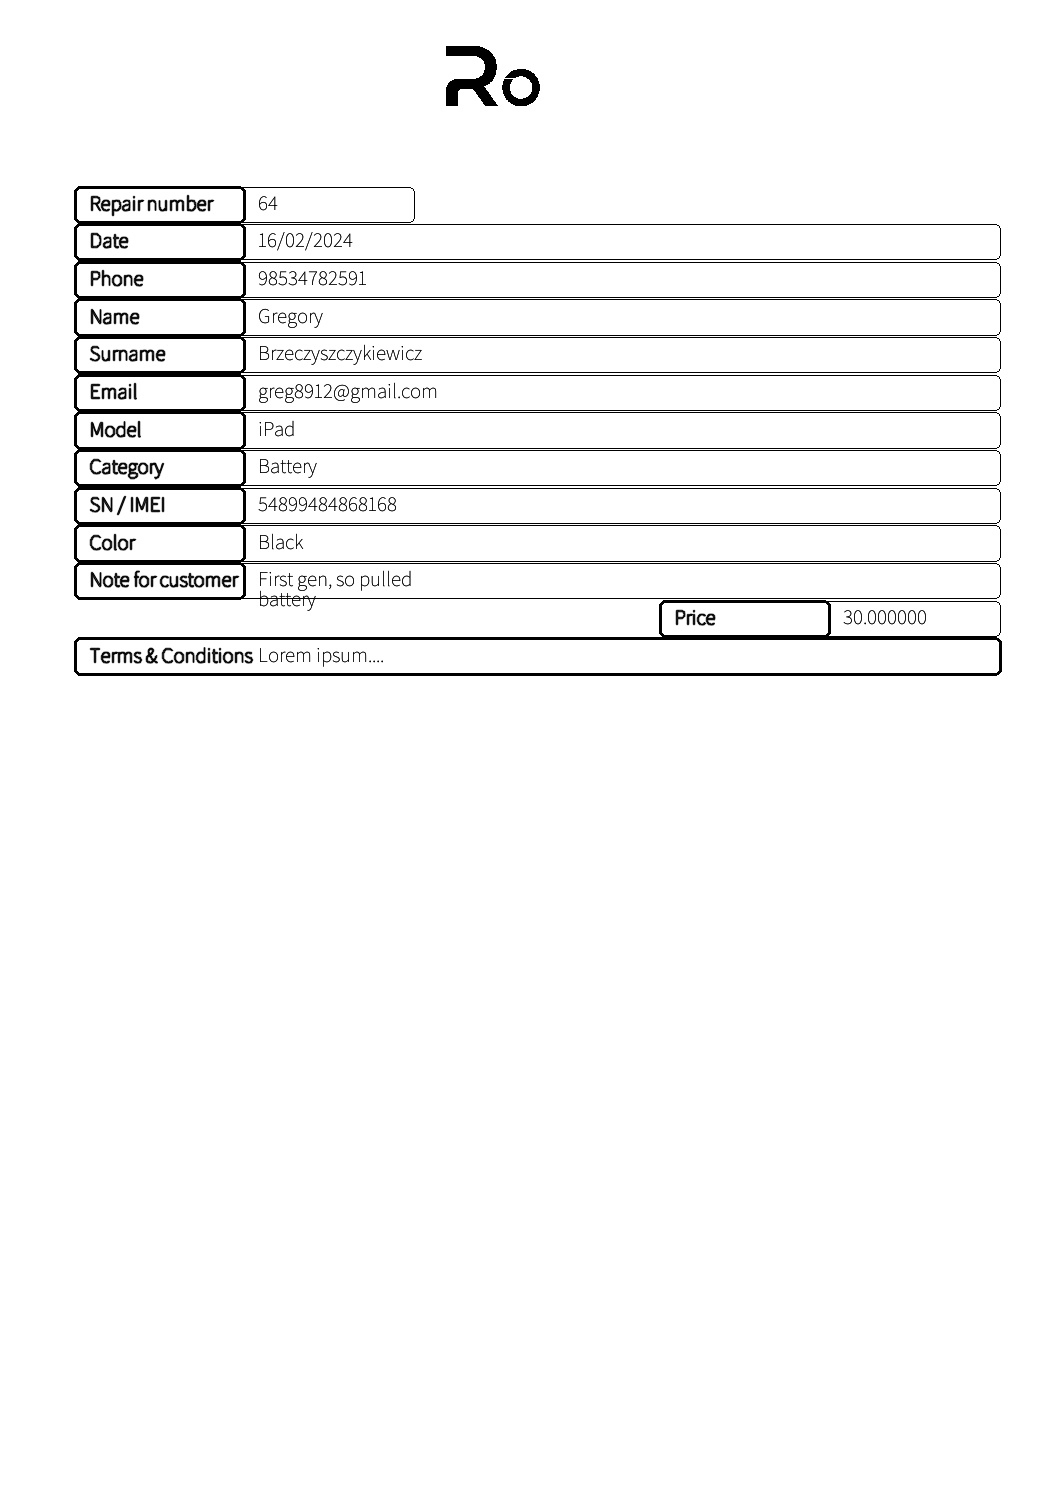
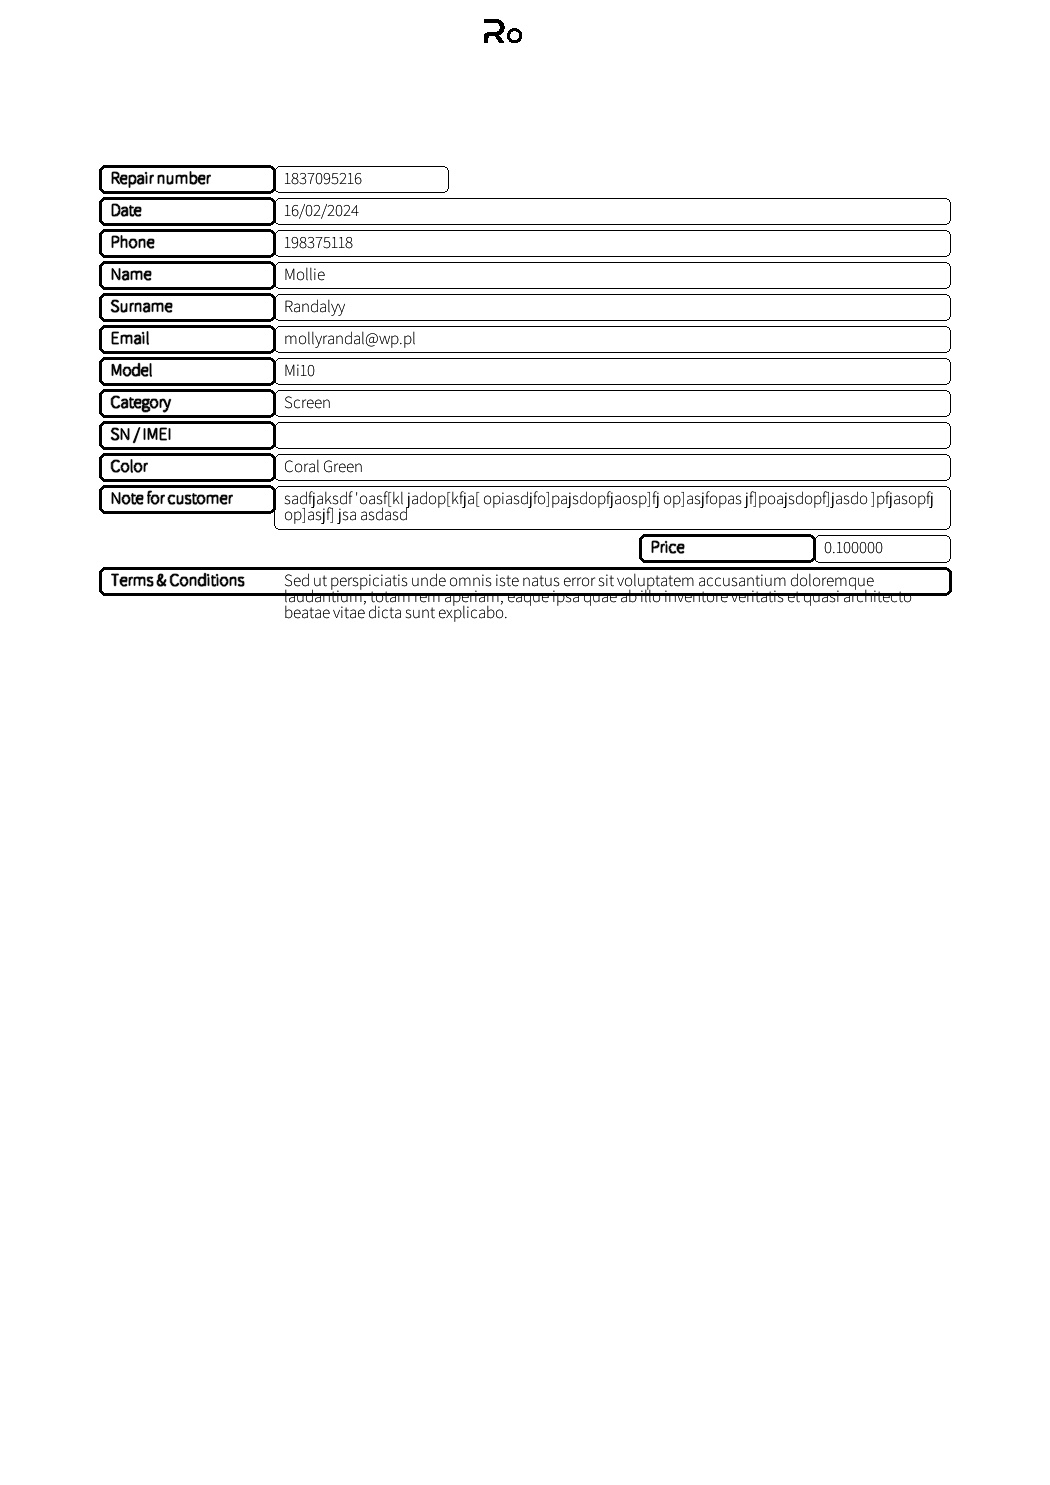
Ticket print template resize field on input

Changed region(s): [[0.061, 0.0929, 0.9448, 0.4646], [0.4267, 0.0, 0.5181, 0.0929]]

diff --git a/Reparo/src/repair_ticket.cpp b/Reparo/src/repair_ticket.cpp
@@ -11,7 +11,10 @@ ElementProperty::ElementProperty(const ImVec2& size, const ImVec2& offset) : siz
 // SECTION TextField
 TextField::TextField() {}
 
-TextField::TextField(std::string label) : label(label) {}
+TextField::TextField(std::string label) : label(label) {
+  std::cout << "Created TextField: " << label <<  std::endl;
+
+}
 
 TextField::TextField(const std::string& label, const ImVec2& size, const ImVec2& offset, const float& font_size)
   : ElementProperty(size, offset), // Call the base class constructor
@@ -148,63 +151,91 @@ void CreateImage::CreateA4(std::vector<TextField>& text_fields_vector, Logo* log
   
   DrawLogo(image, logo);
   cv::imwrite("temp.jpg", image); // Save the image
-  //cv::imshow("A4 Image with Custom Font", image); // Display the image
-  //cv::waitKey(0); // Wait for a key press to close the image window
+  cv::imshow("A4 Image with Custom Font", image); // Display the image
+  cv::waitKey(0); // Wait for a key press to close the image window
 }
 
 void CreateImage::DrawTextFieldsOnImage(std::vector<TextField>& text_fields_vector, cv::Mat& image, float& right_margin, Repair* repair) {
-  static bool toggle = false;
+  int y = 0;
+  int ext_box = 0;
   for (auto& field : text_fields_vector) {
-
-    float offset_x = field.offset.x * dpi_s;
-    float offset_y = field.offset.y * dpi_s;
-
+    float offset_x = field.offset.x * TicketScales::dpi_scale;
+    float offset_y = field.offset.y * TicketScales::dpi_scale;
+    float size_x = field.size.x * TicketScales::scale;
+    float size_y = field.size.y * TicketScales::scale;
+    float font_size = field.font_size * TicketScales::scale;
+    float text_pos_x = offset_x + 10;
+    float text_pos_y = offset_y + ((size_y / font_size) * scale );
+    //std::cout << "Offset Y: " << offset_y << " Text Pos Y: " << text_pos_y <<  " | " << scale << " | " << size_y << " | " << font_size << std::endl;
     cv::Scalar rect_color(0, 0, 0); // Black border
     int thickness = 1; // Pixel
     int corner_radius = 5; // Radius of the rounded corners
-    cv::Scalar color_fill = toggle ? cv::Scalar(255, 255, 255, 128) : cv::Scalar(255, 255, 255, 128);
+    cv::Scalar color_fill =  cv::Scalar(255, 255, 255, 128);
 
-    cv::Point left_cell;
+    
+
+    // Draw labels on left side 
+    DrawWrappedText(image, field.label, cv::Point(text_pos_x,  offset_y + y), size_x, font_size, cv::Scalar(0, 0, 0), 1, font_size);
+    cv::Point left_cell_bot_right;
     if (field.label == "Terms & Conditions") {
-      left_cell = cv::Point(width - right_margin, (offset_y)+(field.size.y));
+      left_cell_bot_right = cv::Point(width - right_margin, offset_y + size_y + y);
     }
     else {
-      left_cell = cv::Point((offset_x)+(field.size.x * dpi_s), (offset_y)+(field.size.y));
+      left_cell_bot_right = cv::Point(offset_x + size_x, offset_y + size_y+y);
     }
-    DrawRoundedRect(image, cv::Point((offset_x), (offset_y)-(field.font_size)),
-      left_cell,
+    DrawRoundedRect(image, cv::Point(offset_x, offset_y + y),
+      left_cell_bot_right,
       corner_radius, rect_color, color_fill, 2);
-    cv::Scalar color_fill1(255, 255, 255, 128);
-
-    cv::Point right_cell;
-    if (field.label != "Terms & Conditions") {
-      if (field.label == "Repair number")
-        right_cell = cv::Point((offset_x)+(field.size.x * dpi_s) * 2, offset_y+field.size.y);
-      else {
-        right_cell = cv::Point(width - right_margin, (offset_y)+(field.size.y));
-      }
-      DrawRoundedRect(image, cv::Point((offset_x), (offset_y)-(field.font_size)),
-        right_cell,
-        corner_radius, rect_color, color_fill1, thickness);
-    }
 
     // Draw the text on the A4 image using custom font, handling new lines
-    DrawWrappedText(image, field.label, cv::Point(offset_x + field.font_size , offset_y + field.font_size / 1.5), field.size.x * dpi_s, field.font_size * dpi_s, cv::Scalar(0, 0, 0), 1);
     static std::unordered_map<std::string, std::string> right_cells;
     if (repair) {
       right_cells = AssignRepairToLabels(repair);
     }
-     DrawWrappedText(image, right_cells[field.label], cv::Point((offset_x + field.size.x * dpi_s) + field.font_size, offset_y + field.font_size / 1.5), field.size.x * dpi_s, field.font_size * dpi_s, cv::Scalar(0, 0, 0), -1);
-      
-   
-    toggle = !toggle;
+    int temp_y = DrawWrappedText(image, right_cells[field.label], cv::Point(text_pos_x + size_x, text_pos_y + y), width - right_margin - offset_x - size_x, font_size, cv::Scalar(0, 0, 0), -1, font_size);
+
+
+    // Draw fields on right side
+    cv::Scalar color_fill1(255, 255, 255, 128);
+
+    cv::Point right_cell_top_left;
+    if (field.label == "Terms & Conditions") {
+      right_cell_top_left = cv::Point((offset_x + size_x), offset_y);
+    }
+    if (field.label == "Repair number") {
+      right_cell_top_left = cv::Point((offset_x + size_x), offset_y);
+    }
+    else {
+      right_cell_top_left = cv::Point((offset_x + size_x), offset_y + y);
+    }
+    y = 0;
+    if (temp_y - offset_y > 5) {
+      y +=  temp_y -offset_y;
+    }
+
+    cv::Point right_cell_bot_right;
+    if (field.label != "Terms & Conditions") {
+      if (field.label == "Repair number")
+        right_cell_bot_right = cv::Point(offset_x + size_x * 2, offset_y + size_y + y);
+      else {
+        right_cell_bot_right = cv::Point(width - right_margin, offset_y + size_y + y);
+      }
+    }
+
+      //DrawRoundedRect(image, cv::Point((offset_x+size_x), offset_y),
+    if (field.label != "Terms & Conditions") {
+      DrawRoundedRect(image, right_cell_top_left,
+        right_cell_bot_right,
+        corner_radius, rect_color, color_fill1, thickness);
+    }
   }
 }
 
-void CreateImage::DrawWrappedText(cv::Mat& image, const std::string& text, cv::Point origin, int max_width, float font_scale, cv::Scalar color, int thickness) {
+int CreateImage::DrawWrappedText(cv::Mat& image, const std::string& text, cv::Point origin, int max_width, float font_scale, cv::Scalar color, int thickness, float padding) {
   int base_line = 0;
   // Estimate height of a single line of text
   cv::Size text_size = ft2->getTextSize("W", static_cast<int>(font_scale), thickness, &base_line);
+  //std::cout << "Text size: "  << text_size << " | " << font_scale << " | "  << origin.y << std::endl;
   int y = origin.y;
 
   std::istringstream words(text);
@@ -216,7 +247,7 @@ void CreateImage::DrawWrappedText(cv::Mat& image, const std::string& text, cv::P
     cv::Size lineWidth = ft2->getTextSize(mew_line, static_cast<int>(font_scale), thickness, &base_line);
 
     if (lineWidth.width > max_width && !line.empty()) {
-      ft2->putText(image, line, cv::Point(origin.x, y), static_cast<int>(font_scale), color, thickness, cv::LINE_AA, true);
+      ft2->putText(image, line, cv::Point(origin.x, y), static_cast<int>(font_scale), color, thickness, cv::LINE_AA, false);
       line = word + " ";
       y += text_size.height + base_line;
     }
@@ -225,8 +256,9 @@ void CreateImage::DrawWrappedText(cv::Mat& image, const std::string& text, cv::P
     }
   }
   if (!line.empty()) {
-    ft2->putText(image, line, cv::Point(origin.x, y), static_cast<int>(font_scale), color, thickness, cv::LINE_AA, true);
+    ft2->putText(image, line, cv::Point(origin.x, y), static_cast<int>(font_scale), color, thickness, cv::LINE_AA, false);
   }
+  return  y;
 }
 
 void CreateImage::DrawRoundedRect(cv::Mat& image, cv::Point top_left, cv::Point bot_right, int corner_radius, const cv::Scalar& color, const cv::Scalar& color_fill, int thickness) {
@@ -253,19 +285,18 @@ void CreateImage::DrawRoundedRect(cv::Mat& image, cv::Point top_left, cv::Point 
   // choose arbitrary starting point for fill => Top left plus 10,10
   cv::Point fill_from(top_left.x + 10, top_left.y + 10);
   // You may want to use `lineColor` instead of `fillColor`
-  std::cout << "Channels: " << image.channels() << std::endl;
-  cv::floodFill(image, fill_from, color_fill);
+  //cv::floodFill(image, fill_from, color_fill);
 }
 
 void CreateImage::DrawLogo(cv::Mat& image, Logo* logo) {
   cv::Mat logo_img = cv::imread("logo.png", cv::IMREAD_UNCHANGED); // Load the extra image with alpha channel
   if (!logo_img.empty()) {
     // Resize the extra image to match logo size
-    cv::Size new_size(logo->size.x * dpi_s, logo->size.y * dpi_s); // Assuming logo->size is defined and contains the target size
+    cv::Size new_size(logo->size.x * scale, logo->size.y * scale); // Assuming logo->size is defined and contains the target size
     cv::resize(logo_img, logo_img, new_size);
 
     // Define the region of interest (ROI) on the image
-    cv::Point offset(logo->offset.x * dpi_s, logo->offset.y * dpi_s); // Assuming logo->offset is defined and contains the target position
+    cv::Point offset(logo->offset.x * TicketScales::dpi_scale, logo->offset.y * TicketScales::dpi_scale); // Divided by whatever scale we have on blank image in imgui - currently 2.5
     if (offset.x + new_size.width <= image.cols && offset.y + new_size.height <= image.rows) {
       cv::Rect roi(offset, new_size);
       cv::Mat destination_roi = image(roi);
@@ -308,7 +339,7 @@ std::unordered_map<std::string, std::string> CreateImage::AssignRepairToLabels(R
     {"Color", repair->device.color},
     {"Note for customer", repair->visible_note},
     {"Price", std::to_string(repair->price)},
-    {"Terms & Conditions", "Lorem ipsum...."}
+    {"Terms & Conditions", "Sed ut perspiciatis unde omnis iste natus error sit voluptatem accusantium doloremque laudantium, totam rem aperiam, eaque ipsa quae ab illo inventore veritatis et quasi architecto beatae vitae dicta sunt explicabo."}
   };
   return repair_to_map;
 }
@@ -316,7 +347,6 @@ std::unordered_map<std::string, std::string> CreateImage::AssignRepairToLabels(R
 // SECTION RepairTicket
 void RepairTicket::Update(const int& passed_int, Repair* repair) {
   if (repair) {
-    // *********************************************************************************** Template tests ******** BEGIN
     std::vector<TextField> text_fields_v;
     json data = RO_Cfg::GetConfig("template.json");
     auto textFields = data["text_field"];
@@ -330,18 +360,23 @@ void RepairTicket::Update(const int& passed_int, Repair* repair) {
 
       text_fields_v.push_back(text_field);
     }
+
+    // Sort the vector by offset.y in ascending order
+    std::sort(text_fields_v.begin(), text_fields_v.end(), [](const TextField& a, const TextField& b) {
+      return a.offset.y < b.offset.y;
+      });
+
     auto json_logo = data["logo"];
     ImVec2 size(json_logo["size"]["x"], json_logo["size"]["y"]);
     ImVec2 offset(json_logo["offset"]["x"], json_logo["offset"]["y"]);
     Logo logo(size, offset);
-    CreateImage::CreateA4(text_fields_v, &logo, 50, repair);
+    CreateImage::CreateA4(text_fields_v, &logo, TicketScales::margin, repair);
 
     std::cout << "Update" << std::endl;
     ShowTemplate();
 
     run_modal = true;
   }
-  // ***********************************************************************************   Template tests ******** END
 }
 
 void RepairTicket::RepairTicketWin() {
@@ -363,7 +398,7 @@ void RepairTicket::RepairTicketWin() {
       // CreateImage() - opencv
       ImDrawList* draw_list = ImGui::GetWindowDrawList();
       ImVec2 canvas_p0 = ImGui::GetCursorScreenPos();
-      ImVec2 canvas_p1 = ImVec2(canvas_p0.x + (210 * 2.5), canvas_p0.y + (297 * 2.5));
+      ImVec2 canvas_p1 = ImVec2(canvas_p0.x + (210 * TicketScales::temp_scale), canvas_p0.y + (297 * TicketScales::temp_scale));
       ImRect canvas_rect = ImRect(canvas_p0, canvas_p1);
       DrawBlankPage(draw_list, canvas_rect);
       TextFieldsOnCanvas(canvas_rect);
@@ -391,7 +426,7 @@ void RepairTicket::CreateTextFields() {
       text_field.size.x = RO_Cfg::getValue("text_field." + label + ".size.x", 50.0f, "template.json");
       text_field.size.y = RO_Cfg::getValue("text_field." + label + ".size.y", 50.0f, "template.json");
       text_field.font_size = RO_Cfg::getValue("text_field." + label + ".font_size", 14.0f, "template.json");
-
+      std::cout << "TextField label of: " << label << std::endl;
       text_fields_vector.push_back(text_field);
       text_fields_count += 1;
     }
@@ -464,7 +499,7 @@ void RepairTicket::SaveTemplateProperties() {
 
 void RepairTicket::CreateTemplate() {
   if (ImGui::Button("A4 IMAGE")) {
-    CreateImage::CreateA4(text_fields_vector,  &logo, 25);
+    CreateImage::CreateA4(text_fields_vector,  &logo, TicketScales::margin);
   }
 }
 

diff --git a/Reparo/src/include/repair_ticket.h b/Reparo/src/include/repair_ticket.h
@@ -5,6 +5,7 @@
 #include <imgui_internal.h>
 #include <opencv2/opencv.hpp>
 #include <opencv2/freetype.hpp>
+#include <algorithm>
 
 #include <string>
 #include <vector>
@@ -73,6 +74,8 @@ public:
   static inline int my_image_height = static_cast<int>(297);
 };
 
+
+
 // SECTION CreateImage
 class CreateImage  {
 public:
@@ -80,18 +83,22 @@ public:
   //static void CreateA4(std::vector<TextField>& text_fields_vector, Logo* logo, float right_margin, Repair& repair);
 
   static void DrawTextFieldsOnImage(std::vector<TextField>& text_fields_vector, cv::Mat& image, float& right_margin, Repair* repair = nullptr);
-  static void DrawWrappedText(cv::Mat& image, const std::string& text, cv::Point origin, int max_width, float font_scale, cv::Scalar color, int thickness);
+  static int DrawWrappedText(cv::Mat& image, const std::string& text, cv::Point origin, int max_width, float font_scale, cv::Scalar color, int thickness, float padding);
   static void DrawRoundedRect(cv::Mat& image, cv::Point top_left, cv::Point bot_right, int corner_radius, const cv::Scalar& color, const cv::Scalar& color_fill, int thickness);
   static void DrawLogo(cv::Mat& image, Logo* logo);
 
 private:
-  static inline int dpi =5;
-  static inline float dpi_s = 1.5f;
+  static inline float dpi = 5;
+  static inline float scale = dpi/4;
+
+  //static inline float dpi_s = 1.5f;
   static inline int width = static_cast<int>(210 * dpi);
   static inline int height = static_cast<int>(297 * dpi);
   static inline cv::Ptr<cv::freetype::FreeType2> ft2 = cv::freetype::createFreeType2();
   static std::unordered_map<std::string, std::string> AssignRepairToLabels(Repair* repair);
 
+private:
+  static inline std::string lorem_ipsum = "Sed ut perspiciatis unde omnis iste natus error sit voluptatem accusantium doloremque laudantium, totam rem aperiam, eaque ipsa quae ab illo inventore veritatis et quasi architecto beatae vitae dicta sunt explicabo. Nemo enim ipsam voluptatem quia voluptas sit aspernatur aut odit aut fugit, sed quia consequuntur magni dolores eos qui ratione voluptatem sequi nesciunt. Neque porro quisquam est, qui dolorem ipsum quia dolor sit amet, consectetur, adipisci velit, sed quia non numquam eius modi tempora incidunt ut labore et dolore magnam aliquam quaerat voluptatem. Ut enim ad minima veniam, quis nostrum exercitationem ullam corporis suscipit laboriosam, nisi ut aliquid ex ea commodi consequatur? Quis autem vel eum iure reprehenderit qui in ea voluptate velit esse quam nihil molestiae consequatur, vel illum qui dolorem eum fugiat quo voluptas nulla pariatur?";
 };
 
 // SECTION RepairTicket 

diff --git a/Reparo/src/insert_repair.cpp b/Reparo/src/insert_repair.cpp
@@ -119,6 +119,10 @@ void InsertRepair::InsertRepairButtonEnabler() {
       ImGui::EndDisabled();
   }
   RunModal(repair); // This is where insertion of Repair to db is called
+  if (ImGui::Button("Test Repair")) {
+    repair = InitRepair();
+    Notify();
+  }
 }
 
 void InsertRepair::InsertRepairButton() {
@@ -151,6 +155,7 @@ void InsertRepair::RunModal(Repair& repair) {
       result = ConfirmResult::CONIFRM_IDLE;
       Notify();
   }
+
 }
 
 void InsertRepair::InsertCustButton() {

diff --git a/Reparo/src/include/structs.h b/Reparo/src/include/structs.h
@@ -89,3 +89,11 @@ struct Repair {
     str sn_imei;
     int id;
 };
+
+struct TicketScales {
+  static inline float print_dpi = 5;
+  static inline float scale = print_dpi / 4;
+  static inline float temp_scale = 2.5;
+  static inline float dpi_scale = print_dpi / temp_scale;
+  static inline float margin = 50 * dpi_scale;
+};
